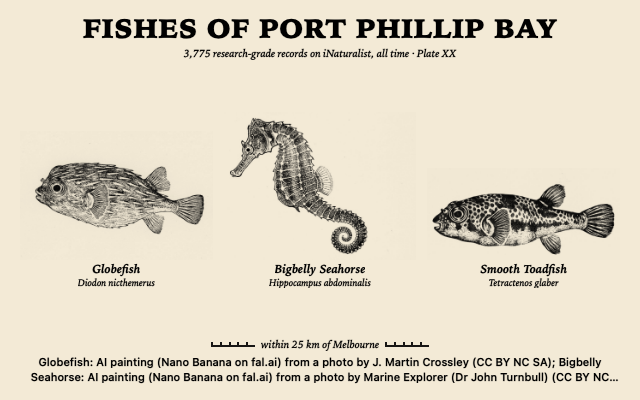
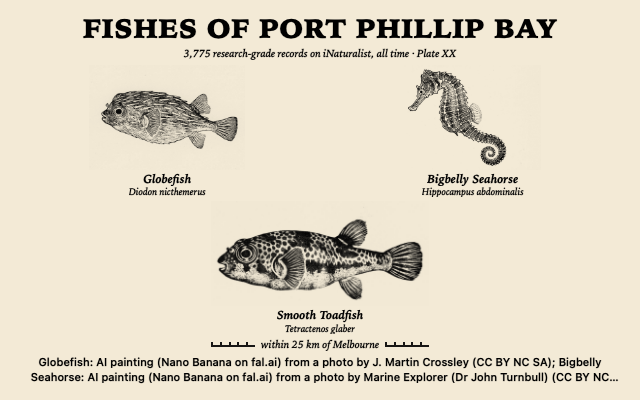
fix: two rows on wide cells when one row would leave the page empty
A single row of fishes is kept only while its width-limited pictures fill about two thirds of the room; otherwise the fishes go in two rows sized by the height each has (three as two over one, four as two over two, five as three over two). The server sends each painting's aspect so the page can plan the rows. Affected screenshots retaken.

diff --git a/client.js b/client.js
@@ -101,26 +101,53 @@ function sideBySide(d, size, w, h) {
   return avail / n < 0.4 * h ? n : 0;
 }
 
+/* The row arrangement for a wide cell. A single row is kept when it fills the height
+   (two fishes, or a very wide cell); when its pictures, each limited to a column's
+   width, would fill less than two thirds of the room, the fishes go in two rows and
+   each row's pictures are sized by the height it has: three as two over one (the lone
+   one centred), four as two over two, five as three over two. */
+const PHOTO_ASPECT = 5 / 3;
+
+function rowPlan(shown, w, h) {
+  const n = shown.length;
+  const cq = Math.min(w, h);
+  const gapX = Math.min(36, Math.max(8, 0.03 * cq));
+  const bodyW = w - 2 * Math.min(56, Math.max(10, 0.05 * cq));
+  const avail = h * (1 - HEAD_SHARE - FOOT_SHARE);
+  const nameFont = Math.max(12, Math.min(26, 0.026 * cq));
+  const caption = 2.4 * nameFont;
+  const aspect = (s) => (s.pic && s.pic.kind === 'painting' && Number(s.pic.aspect) > 0 ? Number(s.pic.aspect) : PHOTO_ASPECT);
+  const plan = (cols, rows) => {
+    const cw = (bodyW - gapX * (cols - 1)) / cols;
+    const pich = Math.max(40, Math.floor(avail / rows - caption - (rows > 1 ? 12 : 0)));
+    const fill = shown.reduce((sum, s) => sum + Math.min(pich, cw / aspect(s)), 0) / (n * pich);
+    return { cols, rows, cw: Math.floor(cw), pich, fill };
+  };
+  const single = plan(n, 1);
+  if (n <= 2 || single.fill >= 0.667) return single;
+  return plan(n === 5 ? 3 : 2, 2);
+}
+
 function stacked(d, size, w, h) {
   const across = sideBySide(d, size, w, h);
   if (across) {
     const shown = d.species.slice(0, across);
-    const cols = across <= 3 ? across : across === 4 ? 2 : 3;
-    // a 2-column-per-fish grid lets the second row of five sit centred under the three
-    const span = across === 5 ? 2 : 1;
-    const tracks = across === 5 ? 6 : cols;
+    const plan = rowPlan(shown, w, h);
+    const n = shown.length;
+    // five fishes sit on a six-track grid (each spanning two) so the second row of two
+    // centres under the three; three in two rows put the lone fish centred, column wide
+    const six = plan.rows === 2 && n === 5;
+    const tracks = six ? 6 : plan.cols;
     const cells = shown
       .map((s, i) => {
-        const col = across === 5 && i >= 3 ? ` style="grid-column:${(i - 3) * 2 + 2} / span 2"` : span > 1 ? ' style="grid-column:span 2"' : '';
+        let style = '';
+        if (six) style = i >= 3 ? ` style="grid-column:${(i - 3) * 2 + 2} / span 2"` : ' style="grid-column:span 2"';
+        else if (plan.rows === 2 && n === 3 && i === 2) style = ` style="grid-column:1 / span 2;width:${plan.cw}px;justify-self:center"`;
         const name = `<span class="fp-common">${esc(s.name)}</span>${s.sci && s.sci !== s.name ? `<span class="fp-sci">${esc(s.sci)}</span>` : ''}`;
-        return `<figure class="fp-fish"${col}>${picture(s, 'fp-pic')}<figcaption class="fp-name fp-name-2">${name}</figcaption></figure>`;
+        return `<figure class="fp-fish"${style}>${picture(s, 'fp-pic')}<figcaption class="fp-name fp-name-2">${name}</figcaption></figure>`;
       })
       .join('');
-    const rows = across > 3 ? 2 : 1;
-    // the room each picture has: the body split by rows, less a two-line caption
-    const nameFont = Math.max(12, Math.min(26, 0.026 * Math.min(w, h)));
-    const pich = Math.max(40, Math.floor((h * (1 - HEAD_SHARE - FOOT_SHARE)) / rows - 2.4 * nameFont - (rows > 1 ? 12 : 0)));
-    return `${head(d, size, w)}<main class="fp-row c${cols}" style="--tracks:${tracks};--rows:${rows};--pich:${pich}px">${cells}</main>${foot(d, shown, size)}`;
+    return `${head(d, size, w)}<main class="fp-row c${plan.cols}" style="--tracks:${tracks};--rows:${plan.rows};--pich:${plan.pich}px">${cells}</main>${foot(d, shown, size)}`;
   }
   const n = rowsFor(d, size, w, h);
   const shown = d.species.slice(0, n);

diff --git a/server.py b/server.py
@@ -574,6 +574,21 @@ def cut_to_fish(raw: bytes) -> bytes | None:
     return out.getvalue()
 
 
+def aspect_of(path: Path | None) -> float:
+    """Width over height of a picture file, or 1.5 when it cannot be read; the
+    page lays a row out from it before the pictures have decoded."""
+    if path is None:
+        return 1.5
+    try:
+        from PIL import Image
+
+        with Image.open(path) as im:
+            w, h = im.size
+        return round(w / h, 3) if w and h else 1.5
+    except Exception:
+        return 1.5
+
+
 def painting_src(art: Any, key: str, data_dir: Path, px: int, levels: str) -> str:
     """The kept painting as a data URI, cut to the fish once and then derived
     per size and panel by the collection; the whole picture when the cut fails."""
@@ -836,10 +851,12 @@ def _fetch(
             if got_art.ready:
                 src = painting_src(art, key, data_dir, px, levels)
                 if src:
+                    cut = ART.folder(data_dir) / f"{key}__cut.png"
                     row["pic"] = {
                         "src": src,
                         "kind": "painting",
                         "credit": str(got_art.meta.get("credit") or "AI painting"),
+                        "aspect": aspect_of(cut if cut.exists() else got_art.path),
                     }
     if art is not None:
         art.finish(ctx, facet=style)

diff --git a/README.md b/README.md
@@ -63,9 +63,11 @@ width, with "Common name · Scientific name" in an italic serif beneath, the
 title at the top, the plate number top right, and a scale bar at the foot that
 carries the area and record count. On a landscape cell where the stack would
 leave each fish under two fifths of the height, the fishes go side by side
-instead (two or three across, four as two rows of two, five as three over two)
-with each caption under its fish, so the fish stays the biggest thing on the
-page in every cell shape. Portrait cells keep the stack; sm shows one fish and
+instead, each caption under its fish: a single row while it fills the height
+(two fishes, or a very wide cell), otherwise two rows sized by the room each
+has (three as two over one with the lone fish centred, four as two over two,
+five as three over two), so the fish stays the biggest thing on the page in
+every cell shape. Portrait cells keep the stack; sm shows one fish and
 its name. Where the cell is under 700 px wide the plate number moves into the
 subtitle line so the title keeps to one line.
 
@@ -115,14 +117,14 @@ Settings (one set for every cell): the fal.ai key, a painting budget per day
 
 | | |
 | --- | --- |
-| ![Stacked plate, three Bloch paintings across, 1200x800](screenshots/lg.png) | ![Hero, Bloch paintings on aged paper, 1200x800](screenshots/extra-1.png) |
-| Stacked plate, three Bloch paintings across, 1200x800 | Hero, Bloch paintings on aged paper, 1200x800 |
+| ![Stacked plate, Bloch paintings two over one, 1200x800](screenshots/lg.png) | ![Hero, Bloch paintings on aged paper, 1200x800](screenshots/extra-1.png) |
+| Stacked plate, Bloch paintings two over one, 1200x800 | Hero, Bloch paintings on aged paper, 1200x800 |
 | ![Stacked plate, photographs, 1200x800](screenshots/extra-2.png) | ![Hero, photographs, 1200x800](screenshots/extra-3.png) |
-| Stacked plate, three photographs across, 1200x800 | Hero, photographs, 1200x800 |
+| Stacked plate, photographs two over one, 1200x800 | Hero, photographs, 1200x800 |
 | ![Portrait half panel, Bloch paintings on white paper, 600x800](screenshots/extra-4.png) | ![13.3" portrait, five species in photographs, 1200x1600](screenshots/extra-5.png) |
 | Portrait half panel, Bloch paintings on white paper, 600x800 | 13.3" portrait, five species in photographs, 1200x1600 |
 | ![Gyotaku ink prints on a black and white panel, md](screenshots/extra-6.png) | ![Photographs at md, 640x400](screenshots/extra-7.png) |
-| Gyotaku ink prints on a black and white panel, 640x400 | Photographs at md, 640x400, three across |
+| Gyotaku ink prints on a black and white panel, 640x400 | Photographs at md, 640x400, two over one |
 | ![One gyotaku fish at sm, black and white panel, 380x240](screenshots/extra-8.png) | ![Bloch paintings with the dark theme, 640x400](screenshots/extra-9.png) |
 | One gyotaku fish at sm on a black and white panel, 380x240 | Bloch paintings under the dark theme, 640x400 (the paper stays paper) |
 
